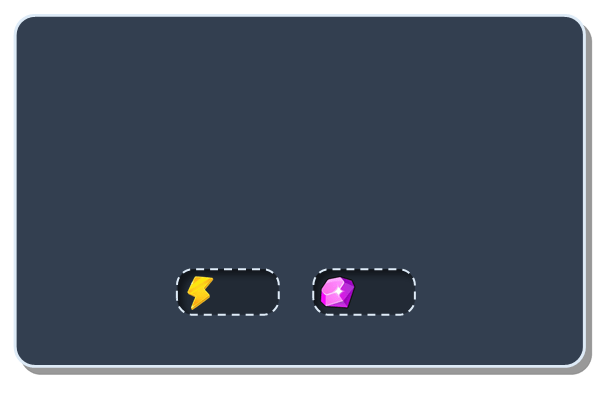
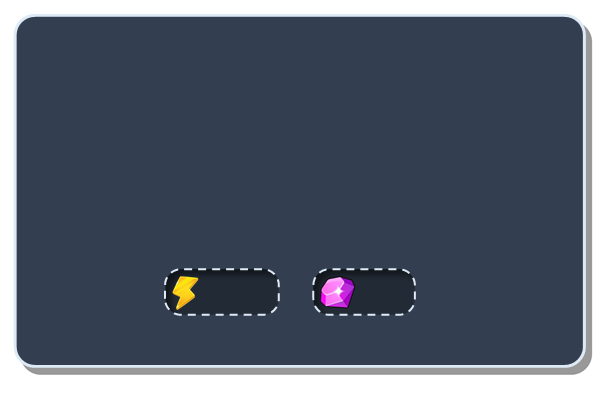
123

Changed region(s): [[0.27, 0.6408, 0.36, 0.7864], [0.42, 0.7573, 0.45, 0.7864], [0.36, 0.7573, 0.39, 0.7864]]

diff --git a/index.js b/index.js
@@ -945,30 +945,40 @@ big_msg = {
 
 		anim3.add(objects.big_msg_cont, {y: [-180, objects.big_msg_cont.sy, 'easeOutBack']}, true, 0.6);
 
-		this.show_bonus_anim(objects.big_msg_energy,params.energy||0)
-		this.show_bonus_anim(objects.big_msg_crystals,params.crystals||0)
+		this.show_bonus_anim(objects.big_msg_energy,my_data.energy,my_data.energy+(params.energy||0))
+		//this.show_bonus_anim(objects.big_msg_crystals,params.crystals||0)
 
 		return new Promise(function(resolve, reject){
 			big_msg.p_resolve = resolve;
 		});
 	},
 
-	show_bonus_anim(text_obj,tar_val){
+	show_bonus_anim(text_obj,curVal,tarVal){
 
-		if (tar_val===0){
-			text_obj.text=0
-			return
+		if (curVal === tarVal) {
+			text_obj.text = tarVal;
+			return;
 		}
 
-		const interval_time=(tar_val*52+948)/tar_val
+		const d=tarVal - curVal
+		const duration = d<10?1000:3000
+		const interval = 16
 
-		let lights=0
-		const t=setInterval(()=>{
-			lights++
-			text_obj.text='+'+lights
-			if (lights===tar_val)
-				clearInterval(t)
-		},interval_time)
+		const frames = Math.ceil(duration / interval)
+		const increment = d / frames
+
+		let value = curVal
+
+		const timer = setInterval(() => {
+
+			value += increment;
+			text_obj.text = Math.round(value);
+			
+			if (value >= tarVal) {
+				text_obj.text = tarVal
+				clearInterval(timer)
+			}
+		}, interval);
 
 	},
 
@@ -1009,7 +1019,8 @@ big_msg = {
 	
 	close(reason){		
 		anim3.add(objects.big_msg_cont, {y: [objects.big_msg_cont.sy, 450, 'easeInBack']}, false, 0.4);
-		this.p_resolve(reason);		
+		if (this.p_resolve) this.p_resolve(reason)
+		this.p_resolve=0
 	}
 
 }
@@ -1100,8 +1111,8 @@ brd_func={
 					let tx=pref.flipX?7-x:x
 					let ty=pref.flipY?7-y:y
 					
-					objects.checkers[ind].x=tx*50+objects.board.x+20;
-					objects.checkers[ind].y=ty*50+objects.board.y+20;
+					objects.checkers[ind].x=tx*50+objects.board.x+55;
+					objects.checkers[ind].y=ty*50+objects.board.y+55;
 
 					objects.checkers[ind].ix=x;
 					objects.checkers[ind].iy=y;
@@ -1357,6 +1368,7 @@ brd_func={
 		const [sx,sy,tx,ty]=[+mData[0],+mData[1],+mData[2],+mData[3]]
 		const chipSpr = this.getCheckerByPos(sx, sy);
 
+	
 		for (let i = 1 ; i < moves.length; i++) {
 			
 			let tarXi=moves[i][0]
@@ -1366,9 +1378,8 @@ brd_func={
 			let tx=pref.flipX?7-tarXi:tarXi
 			let ty=pref.flipY?7-tarYi:tarYi
 					
-			const tar_x = tx*50+objects.board.x+20;
-			const tar_y = ty*50+objects.board.y+20;			
-			
+			const tar_x = tx*50+objects.board.x+55;
+			const tar_y = ty*50+objects.board.y+55;		
 			await anim3.add(chipSpr, {x:[chipSpr.x, tar_x,'linear'], y: [chipSpr.y, tar_y, 'linear']}, true, 0.16);
 			sound.play('move');
 		}
@@ -1711,6 +1722,7 @@ online_game = {
 
 
 		//фиксируем врему начала игры
+		this.energyCollected=0
 		this.startTime=tm
 		this.lastMoveTm=tm
 		my_data.totalThinkTime=0
@@ -1970,8 +1982,7 @@ online_game = {
 		
 		objects.myThinkTime.text=my+' сек.'
 		objects.oppThinkTime.text=opp+' сек.'
-		anim3.add(objects.myThinkTime,{alpha:[0,0.9,'easeBridge']}, false, 3.5,false);
-		anim3.add(objects.oppThinkTime,{alpha:[0, 0.9,'easeBridge']}, false, 3.5,false);
+		anim3.add(objects.thinkTimeCont,{alpha:[0,0.9,'easeBridge']}, false, 3.5,false);
 	},
 
 	process_my_move(moveStr){
@@ -3269,8 +3280,8 @@ game = {
 			//если мою выбрали фишку
 			if (this.selectedChecker.m_id===1)
 			{
-				objects.selected_frame.x=this.selectedChecker.x+15;
-				objects.selected_frame.y=this.selectedChecker.y+15;
+				objects.selected_frame.x=this.selectedChecker.x-20;
+				objects.selected_frame.y=this.selectedChecker.y-20;
 				objects.selected_frame.visible=true;
 
 				//воспроизводим соответствующий звук
